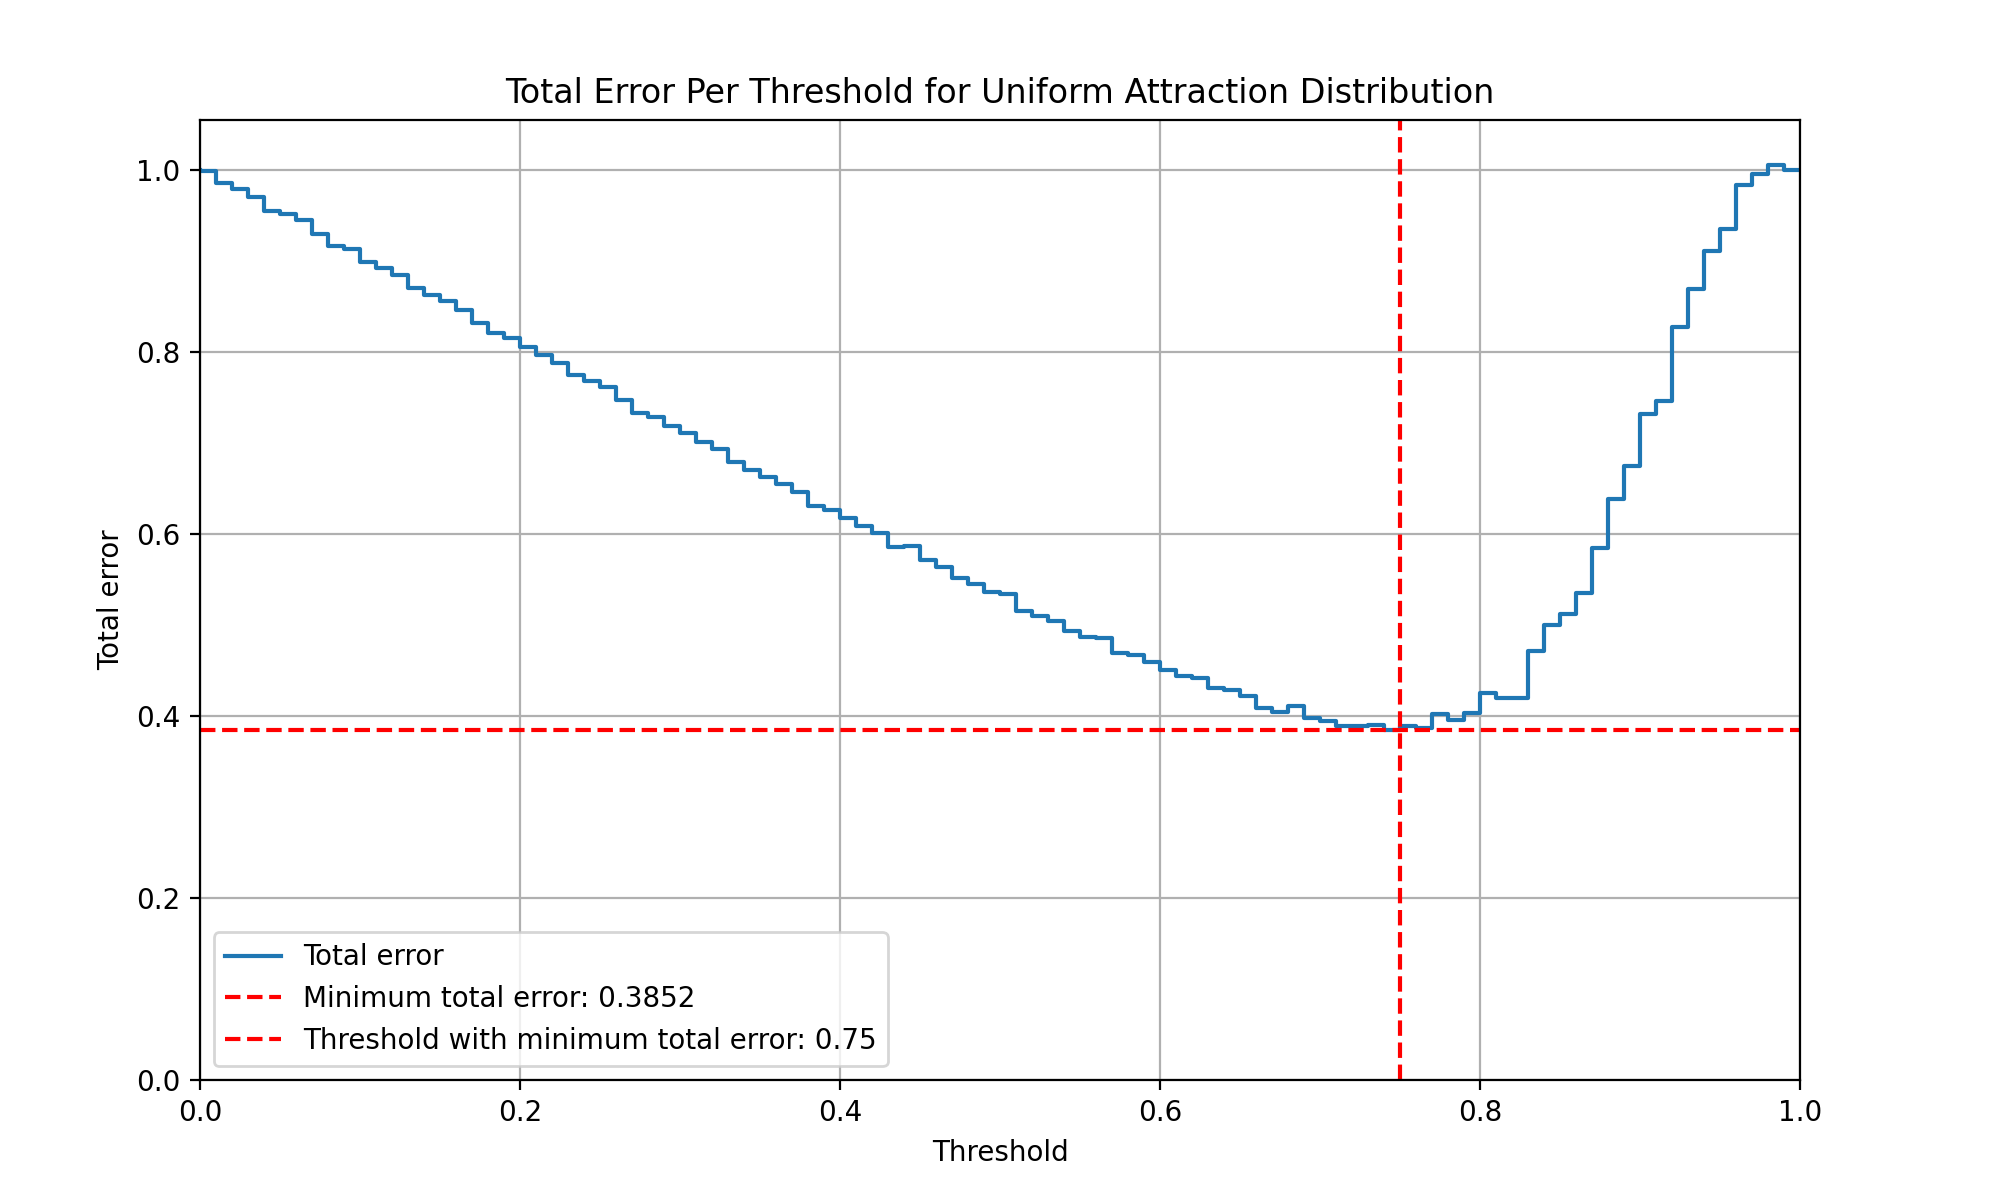
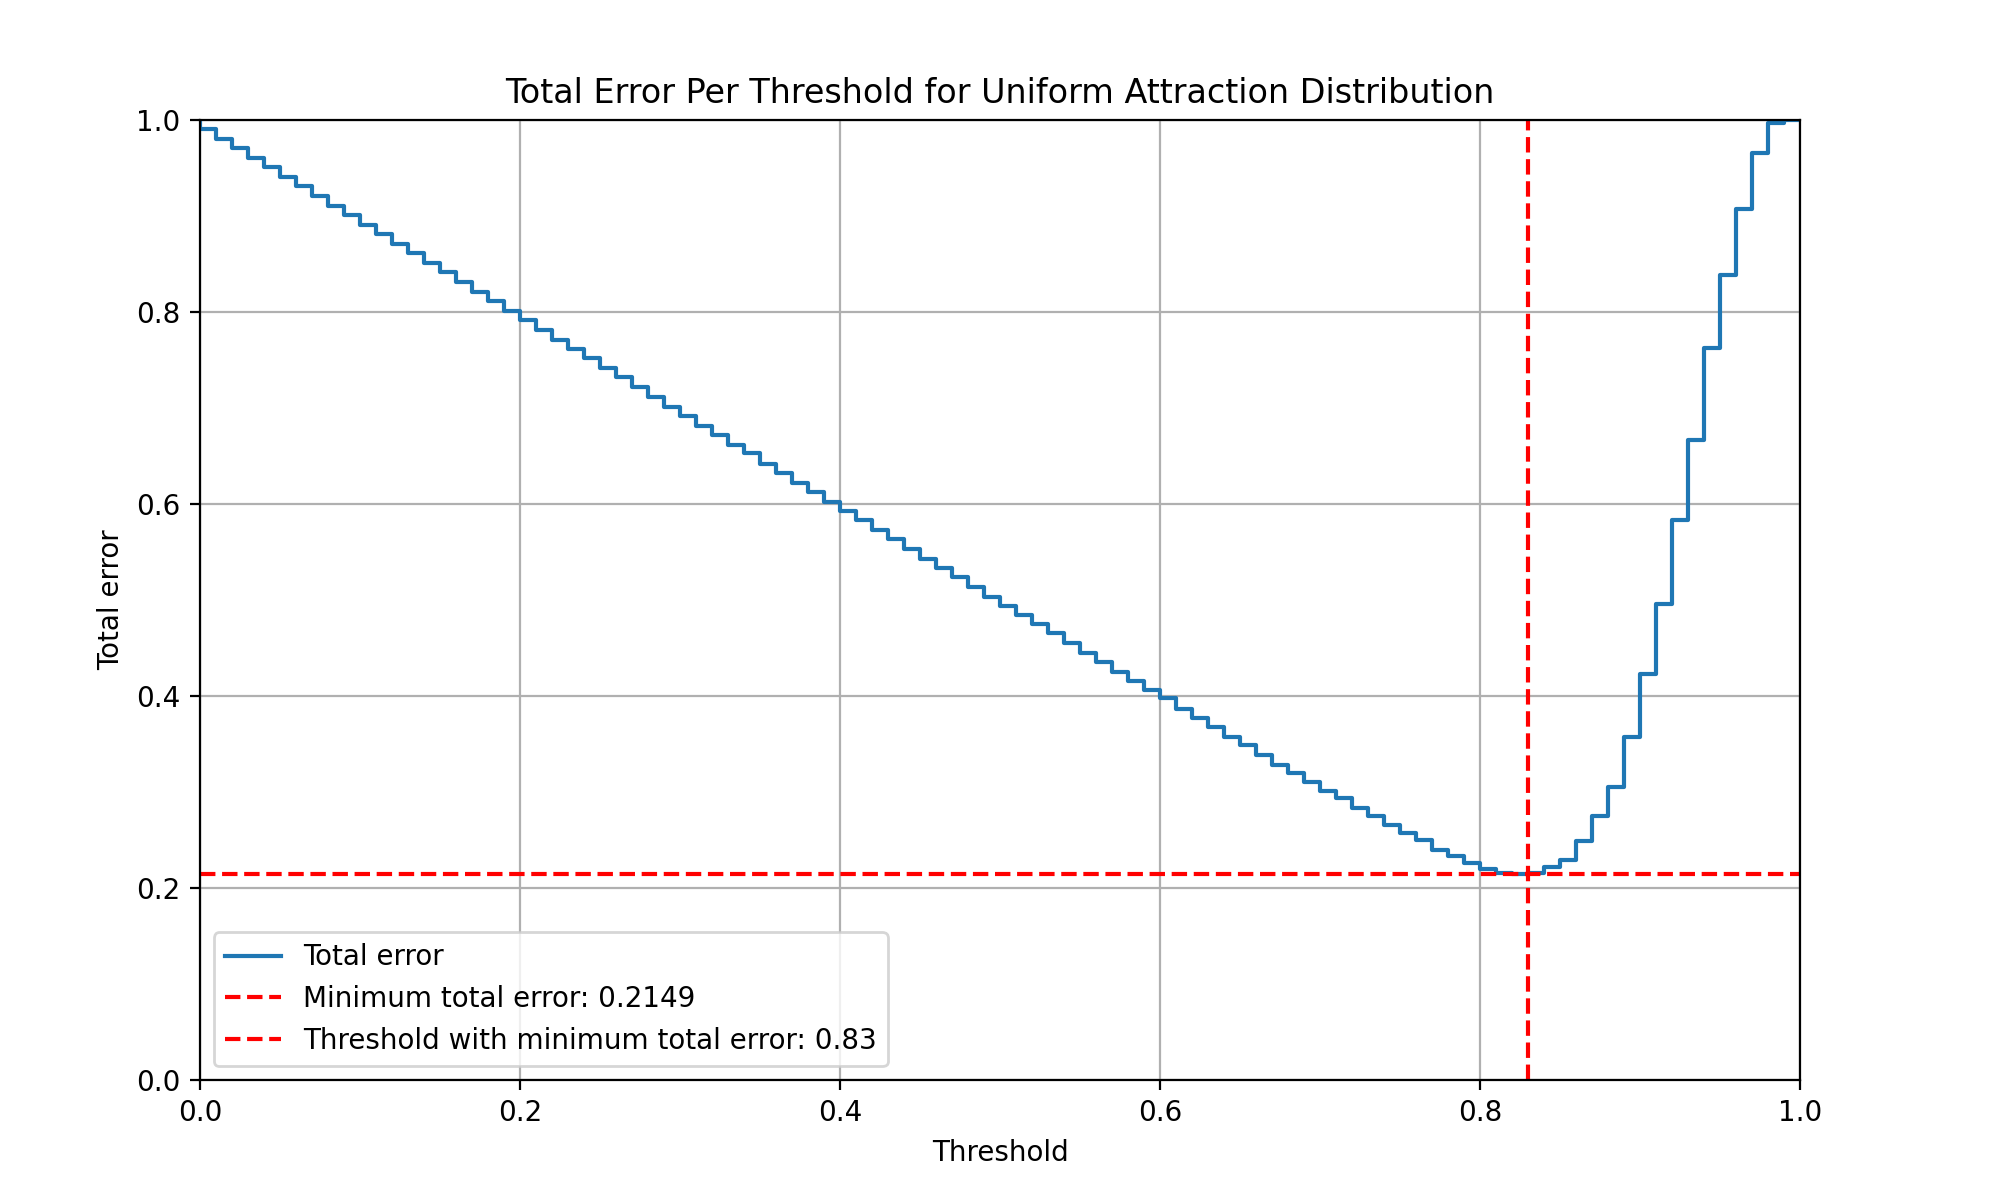
plot_agg_simulations for all rounds

diff --git a/src/main.py b/src/main.py
@@ -94,6 +94,10 @@ def run_simulation(attractionDist, num_population, num_rounds, threshold, plot =
         singles = paired_singles.copy()  # Reassign remaining singles for next round
         num_married.append(len(married)) # Add number of married people to array
         
+    # Fill in the rest of the array with the last value
+    while len(num_married) < num_rounds + 1:
+        num_married.append(num_married[-1])
+        
     if (plot):
         plot_simulation(num_married, ROUNDS, POPULATION, attractionDist, threshold)
     
@@ -134,11 +138,10 @@ def plot_simulation(num_married, ROUNDS, POPULATION, attractionDist, threshold):
     fig.savefig(file_name)
     plt.close()
 
-# run_simulation("Exponential", 100, 100, .75, True)
-# run_simulation("Uniform", 100, 100, .75, True)
+# run_simulation("Uniform", 1000, 150, .75, True)
 
 # Compute the average number of married people for each threshold
-def aggregate_simulations(attractionDist, num_population, num_rounds, num_simulations, plot, read_csv = False, write_csv = False):
+def aggregate_simulations(attractionDist, num_population, num_rounds, num_simulations, plot, round_to_plot, read_csv = False, write_csv = False):
     # Make array of thresholds from 0 to 1 in increments of 0.01
     thresholds = np.arange(0, 1.01, 0.01)
     
@@ -152,7 +155,7 @@ def aggregate_simulations(attractionDist, num_population, num_rounds, num_simula
     else: # Else, run the simulation
         # For each threshold
         for threshold in thresholds:
-            print("Threshold: " + str(threshold))
+            print(attractionDist + " Threshold: " + str(threshold))
             # Instantiate an array to store the number of married people for each simulation
             num_married_threshold = []
             
@@ -160,19 +163,23 @@ def aggregate_simulations(attractionDist, num_population, num_rounds, num_simula
             for _ in range(num_simulations):
                 # Run the simulation
                 num_married_threshold_sim = run_simulation(attractionDist, num_population, num_rounds, threshold, False)
-                # Append the number of married people from the last round to the array
-                num_married_threshold.append(num_married_threshold_sim[-1])
+                # Append the number of married people for each round to the array
+                num_married_threshold.append(num_married_threshold_sim)
                 
-            # Find the average number of people married for threshold
-            avg_num_married_threshold = np.mean(num_married_threshold)
+            # Find the average number of people married for each round
+            avg_num_married_threshold = np.mean(num_married_threshold, axis=0)
+            
             # Append the average number of people married to the array
             avg_num_married.append(avg_num_married_threshold)
         
+        # convert avg_num_married to 2d list
+        avg_num_married = np.array(avg_num_married).tolist()
+        
     # Plot the average number of married people per round for each threshold
     if (plot):
-        plot_agg_simulations(avg_num_married, thresholds, num_rounds, attractionDist)
+        plot_agg_simulations(avg_num_married, thresholds, num_population, num_rounds, attractionDist, round_to_plot)
         # Compute the total error
-        compute_total_error(avg_num_married, thresholds, num_population, attractionDist)
+        # compute_total_error(avg_num_married, thresholds, num_population, attractionDist, round_to_plot)
         
     # Write the avg_num_married to a csv file
     if (write_csv):
@@ -182,7 +189,10 @@ def aggregate_simulations(attractionDist, num_population, num_rounds, num_simula
     return avg_num_married
         
 # Plot the average number of married people per round for each threshold
-def plot_agg_simulations(avg_num_married, thresholds, num_rounds, attractionDist):
+def plot_agg_simulations(avg_num_married, thresholds, num_population, num_rounds, attractionDist, round_to_plot):
+    # Get an array of the round_to_plot'th round for each threshold
+    avg_num_married = [avg_num_married[i][round_to_plot] for i in range(len(thresholds))]
+    
     # Plot the number of married people per round
     x = thresholds
     fig, ax1 = plt.subplots(figsize=(10, 6), dpi=200)
@@ -193,13 +203,13 @@ def plot_agg_simulations(avg_num_married, thresholds, num_rounds, attractionDist
     ax1.step(x, avg_num_married)
     ax1.tick_params(axis='y')
     ax1.set_xlim(0, 1)
-    ax1.set_ylim(0, 100)
+    ax1.set_ylim(0, num_population)
     ax1.grid(True)
     
     # Instantiate a second axes that shares the same x-axis
     ax2 = ax1.twinx()
     ax2.set_ylabel('Proportion of married people')
-    ax2.step(x, np.array(avg_num_married) / 100)
+    ax2.step(x, np.array(avg_num_married) / num_population)
     ax2.tick_params(axis='y')
     ax2.set_ylim(0, 1)
     
@@ -209,9 +219,9 @@ def plot_agg_simulations(avg_num_married, thresholds, num_rounds, attractionDist
     # Add some margin
     fig.subplots_adjust(left=0.1, right=0.9, top=0.9, bottom=0.1)
     
-    title = "Average Number of Married People Per Round for " + attractionDist + " Attraction Distribution"
+    title = "Average Number of Married People Per Round for " + attractionDist + " Attraction Distribution For Round " + str(round_to_plot + 1) + " of " + str(num_rounds) + " Rounds"
     plt.title(title)
-    file_name = "./src/figures/avg_num_married_" + attractionDist + ".png"
+    file_name = "./src/figures/avg_num_married_" + attractionDist + "_round_" + str(round_to_plot) + ".png"
     fig.savefig(file_name)
     plt.close()
    
@@ -291,4 +301,4 @@ def plot_total_error(total_error, thresholds, min_total_error, min_total_error_t
     fig.savefig(file_name)
     plt.close()
 
-aggregate_simulations("Exponential", num_population = 100, num_rounds = 100, num_simulations = 25, plot = True, read_csv = False, write_csv = False)
+aggregate_simulations("Uniform", num_population = 100, num_rounds = 100, num_simulations = 5, plot = True, round_to_plot = 10, read_csv = False, write_csv = False)
